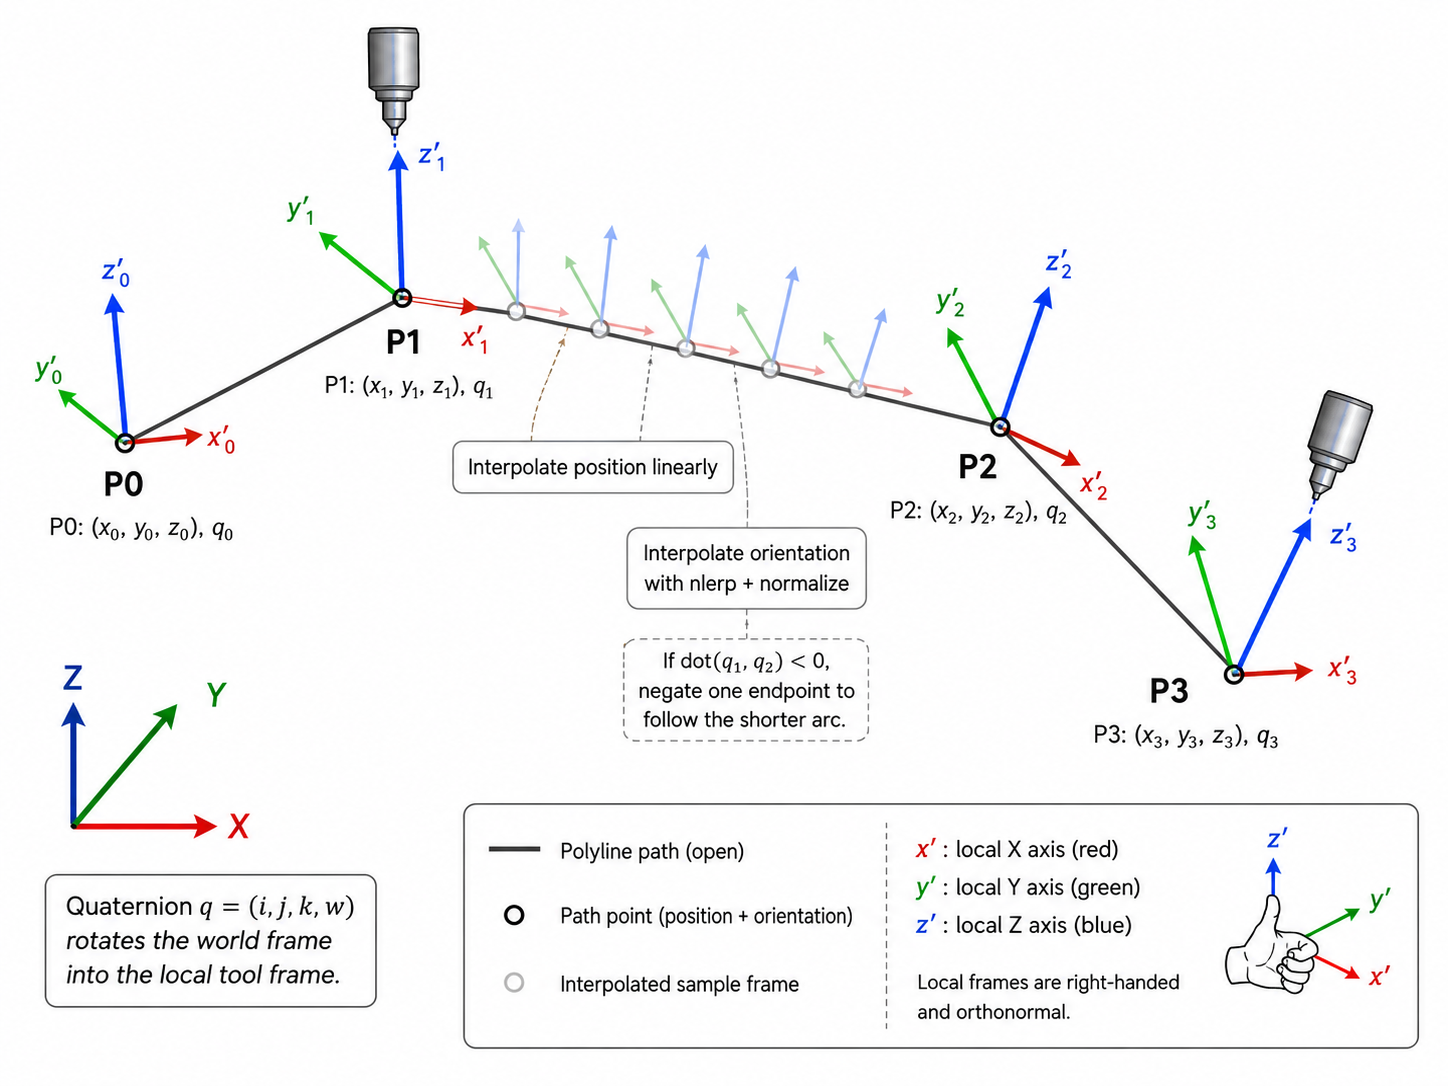
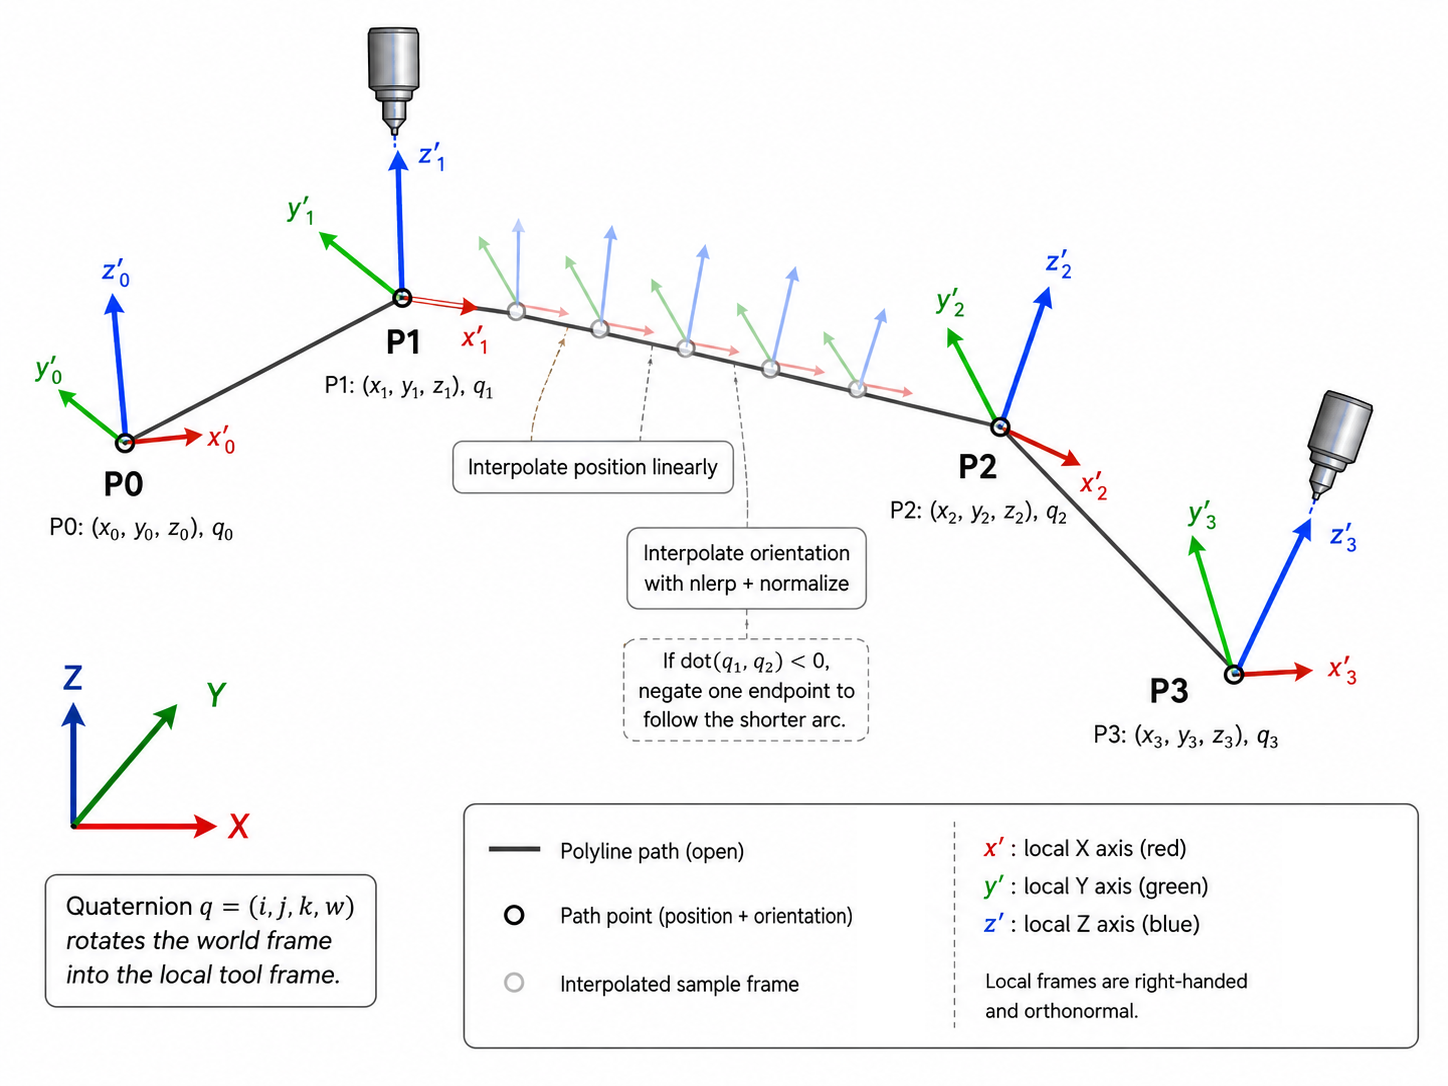
Last XSD Fixes, added formulas for Quaternion math

Changed region(s): [[0.6215, 0.7597, 0.9634, 0.942], [0.9323, 0.8204, 0.9634, 0.8508]]

diff --git a/3MF Toolpath Extension.md b/3MF Toolpath Extension.md
@@ -1022,9 +1022,64 @@ A **6-axis polyline** is an open chain of connected line segments in 3D space in
 
 Each point other than the first "closes" the line arriving from the preceding point; the modifier factors and `tag` on a point therefore apply to that incoming line. The first point has no incoming line, so any modifier factors or `tag` on it are unused.
 
+![Interpolated Quaternion reference frame](images/quaternionreferenceframe.png)
+
 **Orientation as a reference frame.** The quaternion (`i`, `j`, `k`, `w`) carried by a **\<point6d>** is a unit quaternion that encodes a rotation of the machine (world) coordinate system. Applied to the machine axes, that rotation defines a canonical, right-handed orthonormal **reference frame** — a local coordinate system — anchored at the point: it maps the global X, Y, and Z axes onto three mutually perpendicular unit vectors that fix the tool (or deposition-head) orientation there. Each **\<point6d>** therefore specifies a complete pose — a position *and* an orientation — so that the six degrees of freedom (three translational from `x`, `y`, `z`; three rotational from the quaternion) are captured together, with no separate angle convention or axis ordering to agree upon. Producers SHOULD emit unit quaternions (`i² + j² + k² + w² = 1`); a consumer SHOULD normalize on read to absorb rounding, and MUST reject a point whose quaternion is not normalizable (e.g. all-zero).
 
 **Interpolation along the toolpath.** Because orientation is stored as a quaternion rather than as raw angles, it interpolates naturally along each line, in step with the straight-line interpolation of `x`, `y`, `z`. Between two consecutive points a consumer MAY linearly interpolate the four quaternion components and renormalize the result to unit length at each sample (normalized linear interpolation, "nlerp"); this is inexpensive and yields a smooth, singularity-free sweep of the reference frame from the start orientation to the end orientation, avoiding the gimbal-lock and wrap-around problems of interpolating Euler angles. Since a quaternion and its negation (`q` and `−q`) denote the same orientation, a consumer MUST interpolate along the shorter arc by negating one endpoint when the dot product of the two endpoint quaternions is negative.
+
+#### Computing with the quaternion (informative)
+
+The formulas below make the two paragraphs above explicit. Throughout, a point's quaternion is `q = (i, j, k, w)` with vector part `(i, j, k)` and scalar part `w`, matching the attribute order on **\<point6d>**. This is the convention illustrated below: `q` rotates the world frame (X, Y, Z) into the local tool frame (x′, y′, z′).
+
+
+**1. Checking and restoring normalization.** The squared norm of a quaternion is
+
+```text
+‖q‖² = i² + j² + k² + w²
+```
+
+The quaternion is normalized (a *unit* quaternion) when `‖q‖² = 1`. A consumer SHOULD accept a small tolerance ε to absorb rounding, i.e. treat `q` as normalized when `|‖q‖² − 1| ≤ ε` (for example ε = 1e−6). If it is not normalized but `‖q‖ > 0`, divide every component by the norm:
+
+```text
+‖q‖ = sqrt(i² + j² + k² + w²)
+q̂   = (i, j, k, w) / ‖q‖
+```
+
+If `‖q‖ = 0` (e.g. an all-zero quaternion) the orientation is undefined and cannot be normalized; such a point MUST be rejected (see above).
+
+**2. Computing the reference frame.** For a unit quaternion `q = (i, j, k, w)`, the rotation matrix `R` whose columns are the local axes `x′, y′, z′` expressed in world coordinates is
+
+```text
+      | 1 − 2(j² + k²)     2(ij − kw)       2(ik + jw)   |
+R  =  |   2(ij + kw)     1 − 2(i² + k²)     2(jk − iw)   |
+      |   2(ik − jw)       2(jk + iw)     1 − 2(i² + j²) |
+```
+
+so the three orthonormal basis vectors of the local frame are the columns of `R`:
+
+```text
+x′ = ( 1 − 2(j² + k²),   2(ij + kw),     2(ik − jw)   )   (local X, red)
+y′ = ( 2(ij − kw),     1 − 2(i² + k²),   2(jk + iw)   )   (local Y, green)
+z′ = ( 2(ik + jw),       2(jk − iw),   1 − 2(i² + j²) )   (local Z, blue)
+```
+
+(If `q` is not exactly a unit quaternion, normalize it first per step 1; otherwise the axes are not orthonormal.)
+
+**3. nlerp between two quaternions.** To interpolate orientation between an endpoint quaternion `q_a` and `q_b` at parameter `λ ∈ [0, 1]` (the same `λ` used for the linear position blend `P(λ) = (1 − λ)·P_a + λ·P_b`):
+
+```text
+d = dot(q_a, q_b) = i_a·i_b + j_a·j_b + k_a·k_b + w_a·w_b
+
+# shorter-arc fix: flip one endpoint if the dot product is negative
+if d < 0:  q_b ← −q_b        (negate all four components)
+
+# component-wise linear blend, then renormalize to unit length
+q(λ) = (1 − λ)·q_a + λ·q_b
+q̂(λ) = q(λ) / ‖q(λ)‖
+```
+
+`q̂(λ)` is the interpolated orientation at fractional distance `λ` along the line; it equals `q_a` at `λ = 0` and `q_b` at `λ = 1` (up to the sign flip, which denotes the same orientation).
 
 This segment type applies only to a toolpath with `toolpathtype="6axis"`.
 
@@ -1132,17 +1187,30 @@ This appendix defines the normative XSD for the Toolpath Extension. [B.1](#b1-ad
 
 ### B.1 Additions to core types
 
-The Toolpath Extension adds a new resource type to the core **CT_Resources** group and an optional attribute to the core **\<build>** element. The following deltas are expressed against the core 3MF schema and use the toolpath namespace prefix `tp`.
+The Toolpath Extension adds a new resource (**\<tp\:toolpathresource>**) to the core **CT_Resources** type and an optional attribute to the core **\<build>** element. The following deltas are expressed against the core 3MF schema and use the toolpath namespace prefix `tp`.
 
 ```xml
-<!-- Delta to the core CT_Resources group: a 3MF document MAY contain one or
-     more toolpath resources among its resources. -->
-<xs:group name="CT_Resources">
+<!-- Delta to the core CT_Resources type: a 3MF document MAY contain one or
+     more toolpath resources among its resources. The core type is a sequence
+     of a leading choice (base materials and foreign/extension resources)
+     followed by the objects; a toolpath resource is one of the extension
+     resources admitted by that leading choice, so it MUST appear before the
+     <object> elements. It is shown explicitly here for clarity, although as a
+     foreign-namespaced element it is also matched by the choice's ##other
+     wildcard. Repetition uses maxOccurs="2147483647" (2^31 − 1) rather than
+     "unbounded", matching the core schema and keeping resource counts within
+     the signed 32-bit index range. -->
+<xs:complexType name="CT_Resources">
   <xs:sequence>
-    <!-- ... existing core resource elements ... -->
-    <xs:element ref="tp:toolpathresource" minOccurs="0" maxOccurs="unbounded"/>
+    <xs:choice minOccurs="0" maxOccurs="2147483647">
+      <!-- ... existing core resource elements, e.g. basematerials ... -->
+      <xs:element ref="tp:toolpathresource" minOccurs="0" maxOccurs="2147483647"/>
+      <xs:any namespace="##other" processContents="lax" minOccurs="0" maxOccurs="2147483647"/>
+    </xs:choice>
+    <xs:element ref="object" minOccurs="0" maxOccurs="2147483647"/>
   </xs:sequence>
-</xs:group>
+  <xs:anyAttribute namespace="##other" processContents="lax"/>
+</xs:complexType>
 
 <!-- Delta to the core <build> element: optional attribute selecting which
      toolpath resource to fabricate. The attribute is declared globally in B.2. -->
@@ -1315,14 +1383,14 @@ targetNamespace="http://schemas.3mf.io/3dmanufacturing/toolpath/2026/03" element
 	<xs:element name="toolpathprofiles" type="CT_ToolpathProfiles"/>
 	<xs:complexType name="CT_ToolpathProfiles">
 		<xs:sequence>
-			<xs:element ref="toolpathprofile" minOccurs="0" maxOccurs="unbounded"/>
+			<xs:element ref="toolpathprofile" minOccurs="0" maxOccurs="2147483647"/>
 		</xs:sequence>
 	</xs:complexType>
 
 	<xs:element name="toolpathprofile" type="CT_ToolpathProfile"/>
 	<xs:complexType name="CT_ToolpathProfile">
 		<xs:sequence>
-			<xs:element ref="modifier" minOccurs="0" maxOccurs="unbounded"/>
+			<xs:element ref="modifier" minOccurs="0" maxOccurs="2147483647"/>
 		</xs:sequence>
 		<xs:attribute name="uuid" type="ST_UUID" use="required"/>
 		<xs:attribute name="name" type="ST_String" use="required"/>
@@ -1354,7 +1422,7 @@ targetNamespace="http://schemas.3mf.io/3dmanufacturing/toolpath/2026/03" element
 	<xs:element name="toolpathlayers" type="CT_ToolpathLayers"/>
 	<xs:complexType name="CT_ToolpathLayers">
 		<xs:sequence>
-			<xs:element ref="toolpathlayer" minOccurs="0" maxOccurs="unbounded"/>
+			<xs:element ref="toolpathlayer" minOccurs="0" maxOccurs="2147483647"/>
 		</xs:sequence>
 		<xs:attribute name="zbottom" type="ST_NonNegativeInteger" use="optional" default="0"/>
 	</xs:complexType>
@@ -1370,7 +1438,7 @@ targetNamespace="http://schemas.3mf.io/3dmanufacturing/toolpath/2026/03" element
 	<xs:element name="toolpathdata" type="CT_ToolpathData"/>
 	<xs:complexType name="CT_ToolpathData">
 		<xs:sequence>
-			<xs:any namespace="##other" processContents="lax" minOccurs="0" maxOccurs="unbounded"/>
+			<xs:any namespace="##other" processContents="lax" minOccurs="0" maxOccurs="2147483647"/>
 		</xs:sequence>
 		<xs:anyAttribute namespace="##other" processContents="lax"/>
 	</xs:complexType>
@@ -1378,8 +1446,8 @@ targetNamespace="http://schemas.3mf.io/3dmanufacturing/toolpath/2026/03" element
 	<xs:element name="lasersources" type="CT_LaserSources"/>
 	<xs:complexType name="CT_LaserSources">
 		<xs:sequence>
-			<xs:element ref="lasersource" minOccurs="1" maxOccurs="unbounded"/>
-			<xs:element ref="syncgroup" minOccurs="0" maxOccurs="unbounded"/>
+			<xs:element ref="lasersource" minOccurs="1" maxOccurs="2147483647"/>
+			<xs:element ref="syncgroup" minOccurs="0" maxOccurs="2147483647"/>
 		</xs:sequence>
 		<xs:attribute name="default" type="ST_NonNegativeInteger" use="optional"/>
 	</xs:complexType>
@@ -1429,7 +1497,7 @@ targetNamespace="http://schemas.3mf.io/3dmanufacturing/toolpath/2026/03" element
 	<xs:element name="parts" type="CT_Parts"/>
 	<xs:complexType name="CT_Parts">
 		<xs:sequence>
-			<xs:element ref="part" minOccurs="0" maxOccurs="unbounded"/>
+			<xs:element ref="part" minOccurs="0" maxOccurs="2147483647"/>
 		</xs:sequence>
 	</xs:complexType>
 
@@ -1442,7 +1510,7 @@ targetNamespace="http://schemas.3mf.io/3dmanufacturing/toolpath/2026/03" element
 	<xs:element name="profiles" type="CT_Profiles"/>
 	<xs:complexType name="CT_Profiles">
 		<xs:sequence>
-			<xs:element ref="profile" minOccurs="0" maxOccurs="unbounded"/>
+			<xs:element ref="profile" minOccurs="0" maxOccurs="2147483647"/>
 		</xs:sequence>
 	</xs:complexType>
 
@@ -1456,7 +1524,7 @@ targetNamespace="http://schemas.3mf.io/3dmanufacturing/toolpath/2026/03" element
 	<xs:element name="data" type="CT_LayerData"/>
 	<xs:complexType name="CT_LayerData">
 		<xs:sequence>
-			<xs:any namespace="##other" processContents="lax" minOccurs="0" maxOccurs="unbounded"/>
+			<xs:any namespace="##other" processContents="lax" minOccurs="0" maxOccurs="2147483647"/>
 		</xs:sequence>
 		<xs:anyAttribute namespace="##other" processContents="lax"/>
 	</xs:complexType>
@@ -1464,7 +1532,7 @@ targetNamespace="http://schemas.3mf.io/3dmanufacturing/toolpath/2026/03" element
 	<xs:element name="segments" type="CT_Segments"/>
 	<xs:complexType name="CT_Segments">
 		<xs:sequence>
-			<xs:element ref="segment" minOccurs="0" maxOccurs="unbounded"/>
+			<xs:element ref="segment" minOccurs="0" maxOccurs="2147483647"/>
 		</xs:sequence>
 		<xs:anyAttribute namespace="##other" processContents="lax"/>
 	</xs:complexType>
@@ -1475,7 +1543,7 @@ targetNamespace="http://schemas.3mf.io/3dmanufacturing/toolpath/2026/03" element
 		     <point> for planar, <point3d>/<point6d> for 3axis/6axis polylines and
 		     loops, and <hatch> for hatch segments. A Binary Encoding extension MAY
 		     supply the geometry through foreign-namespaced elements instead. -->
-		<xs:choice minOccurs="0" maxOccurs="unbounded">
+		<xs:choice minOccurs="0" maxOccurs="2147483647">
 			<xs:element ref="point"/>
 			<xs:element ref="point3d"/>
 			<xs:element ref="point6d"/>
@@ -1507,7 +1575,7 @@ targetNamespace="http://schemas.3mf.io/3dmanufacturing/toolpath/2026/03" element
 	<xs:element name="point" type="CT_Point"/>
 	<xs:complexType name="CT_Point">
 		<xs:sequence>
-			<xs:element ref="sub" minOccurs="0" maxOccurs="unbounded"/>
+			<xs:element ref="sub" minOccurs="0" maxOccurs="2147483647"/>
 		</xs:sequence>
 		<xs:attribute name="x" type="ST_Integer" use="required"/>
 		<xs:attribute name="y" type="ST_Integer" use="required"/>
@@ -1519,7 +1587,7 @@ targetNamespace="http://schemas.3mf.io/3dmanufacturing/toolpath/2026/03" element
 	<xs:element name="point3d" type="CT_Point3D"/>
 	<xs:complexType name="CT_Point3D">
 		<xs:sequence>
-			<xs:element ref="sub" minOccurs="0" maxOccurs="unbounded"/>
+			<xs:element ref="sub" minOccurs="0" maxOccurs="2147483647"/>
 		</xs:sequence>
 		<xs:attribute name="x" type="ST_Integer" use="required"/>
 		<xs:attribute name="y" type="ST_Integer" use="required"/>
@@ -1532,7 +1600,7 @@ targetNamespace="http://schemas.3mf.io/3dmanufacturing/toolpath/2026/03" element
 	<xs:element name="point6d" type="CT_Point6D"/>
 	<xs:complexType name="CT_Point6D">
 		<xs:sequence>
-			<xs:element ref="sub" minOccurs="0" maxOccurs="unbounded"/>
+			<xs:element ref="sub" minOccurs="0" maxOccurs="2147483647"/>
 		</xs:sequence>
 		<xs:attribute name="x" type="ST_Integer" use="required"/>
 		<xs:attribute name="y" type="ST_Integer" use="required"/>
@@ -1549,7 +1617,7 @@ targetNamespace="http://schemas.3mf.io/3dmanufacturing/toolpath/2026/03" element
 	<xs:element name="hatch" type="CT_Hatch"/>
 	<xs:complexType name="CT_Hatch">
 		<xs:sequence>
-			<xs:element ref="sub" minOccurs="0" maxOccurs="unbounded"/>
+			<xs:element ref="sub" minOccurs="0" maxOccurs="2147483647"/>
 		</xs:sequence>
 		<xs:attribute name="x1" type="ST_Integer" use="required"/>
 		<xs:attribute name="y1" type="ST_Integer" use="required"/>